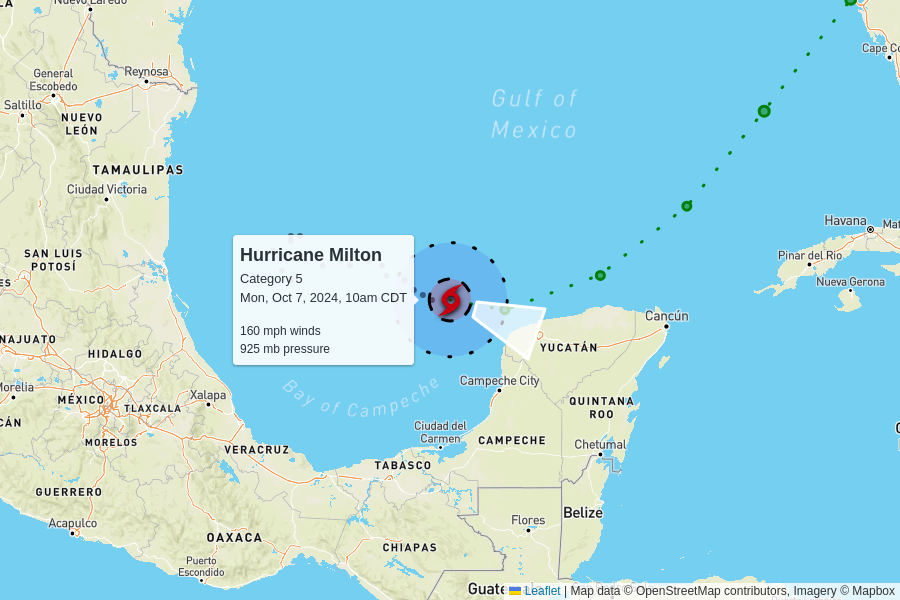
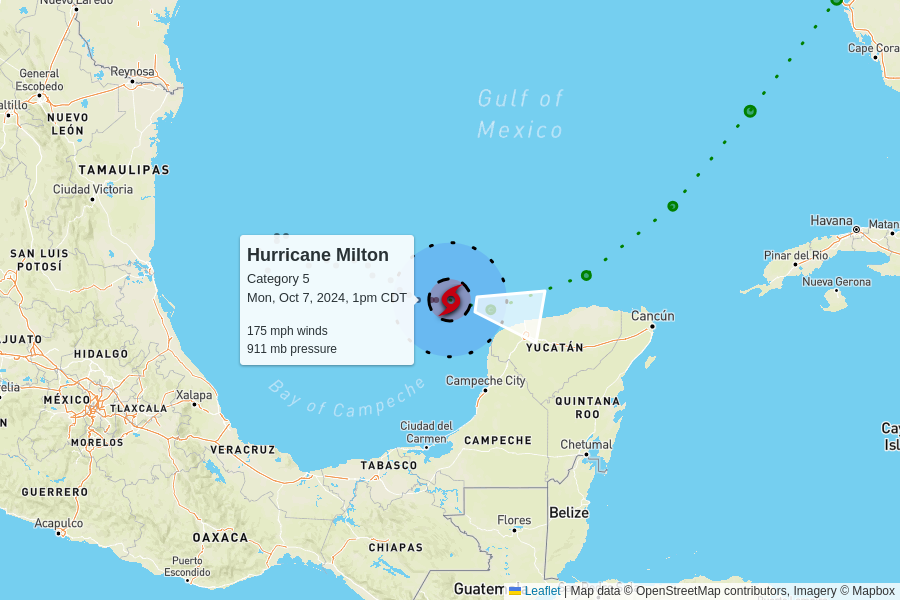
automatic update

diff --git a/docs/index.html b/docs/index.html
@@ -104,7 +104,7 @@
         <td colspan="6" class="storm category-5" >
           <h2>
             Hurricane Milton - Category 5
-            <p class="updated">last updated <span data-time>2024-10-07T15:55:00.000Z</span></p>
+            <p class="updated">last updated <span data-time>2024-10-07T18:00:00.000Z</span></p>
           </h2>
         </td>
       </tr>
@@ -119,12 +119,12 @@
       </tr>
       <tr>
         <td class="spacer"></td>
-        <td>160 mph<br>+5 mph since last update</td>
-        <td>925 mb<br>-8 mb since last update</td>
+        <td>175 mph<br>+15 mph since last update</td>
+        <td>911 mb<br>-14 mb since last update</td>
         <td>
-          9 mph to the east-southeast
+          9 mph to the east
           <br/>
-          <span style="display: inline-block; font-size: 1.5em; transform: rotate(110deg);">↑</span>
+          <span style="display: inline-block; font-size: 1.5em; transform: rotate(100deg);">↑</span>
         </td>
         <td><a href="https://raw.githubusercontent.com/mgwalker/atlantic-hurricanes/main/data/csv/AL142024.csv">AL142024.csv</a></td>
         <td><a href="https://www.nhc.noaa.gov/archive/2024/MILTON.shtml?">NHC advisories</a></td>
